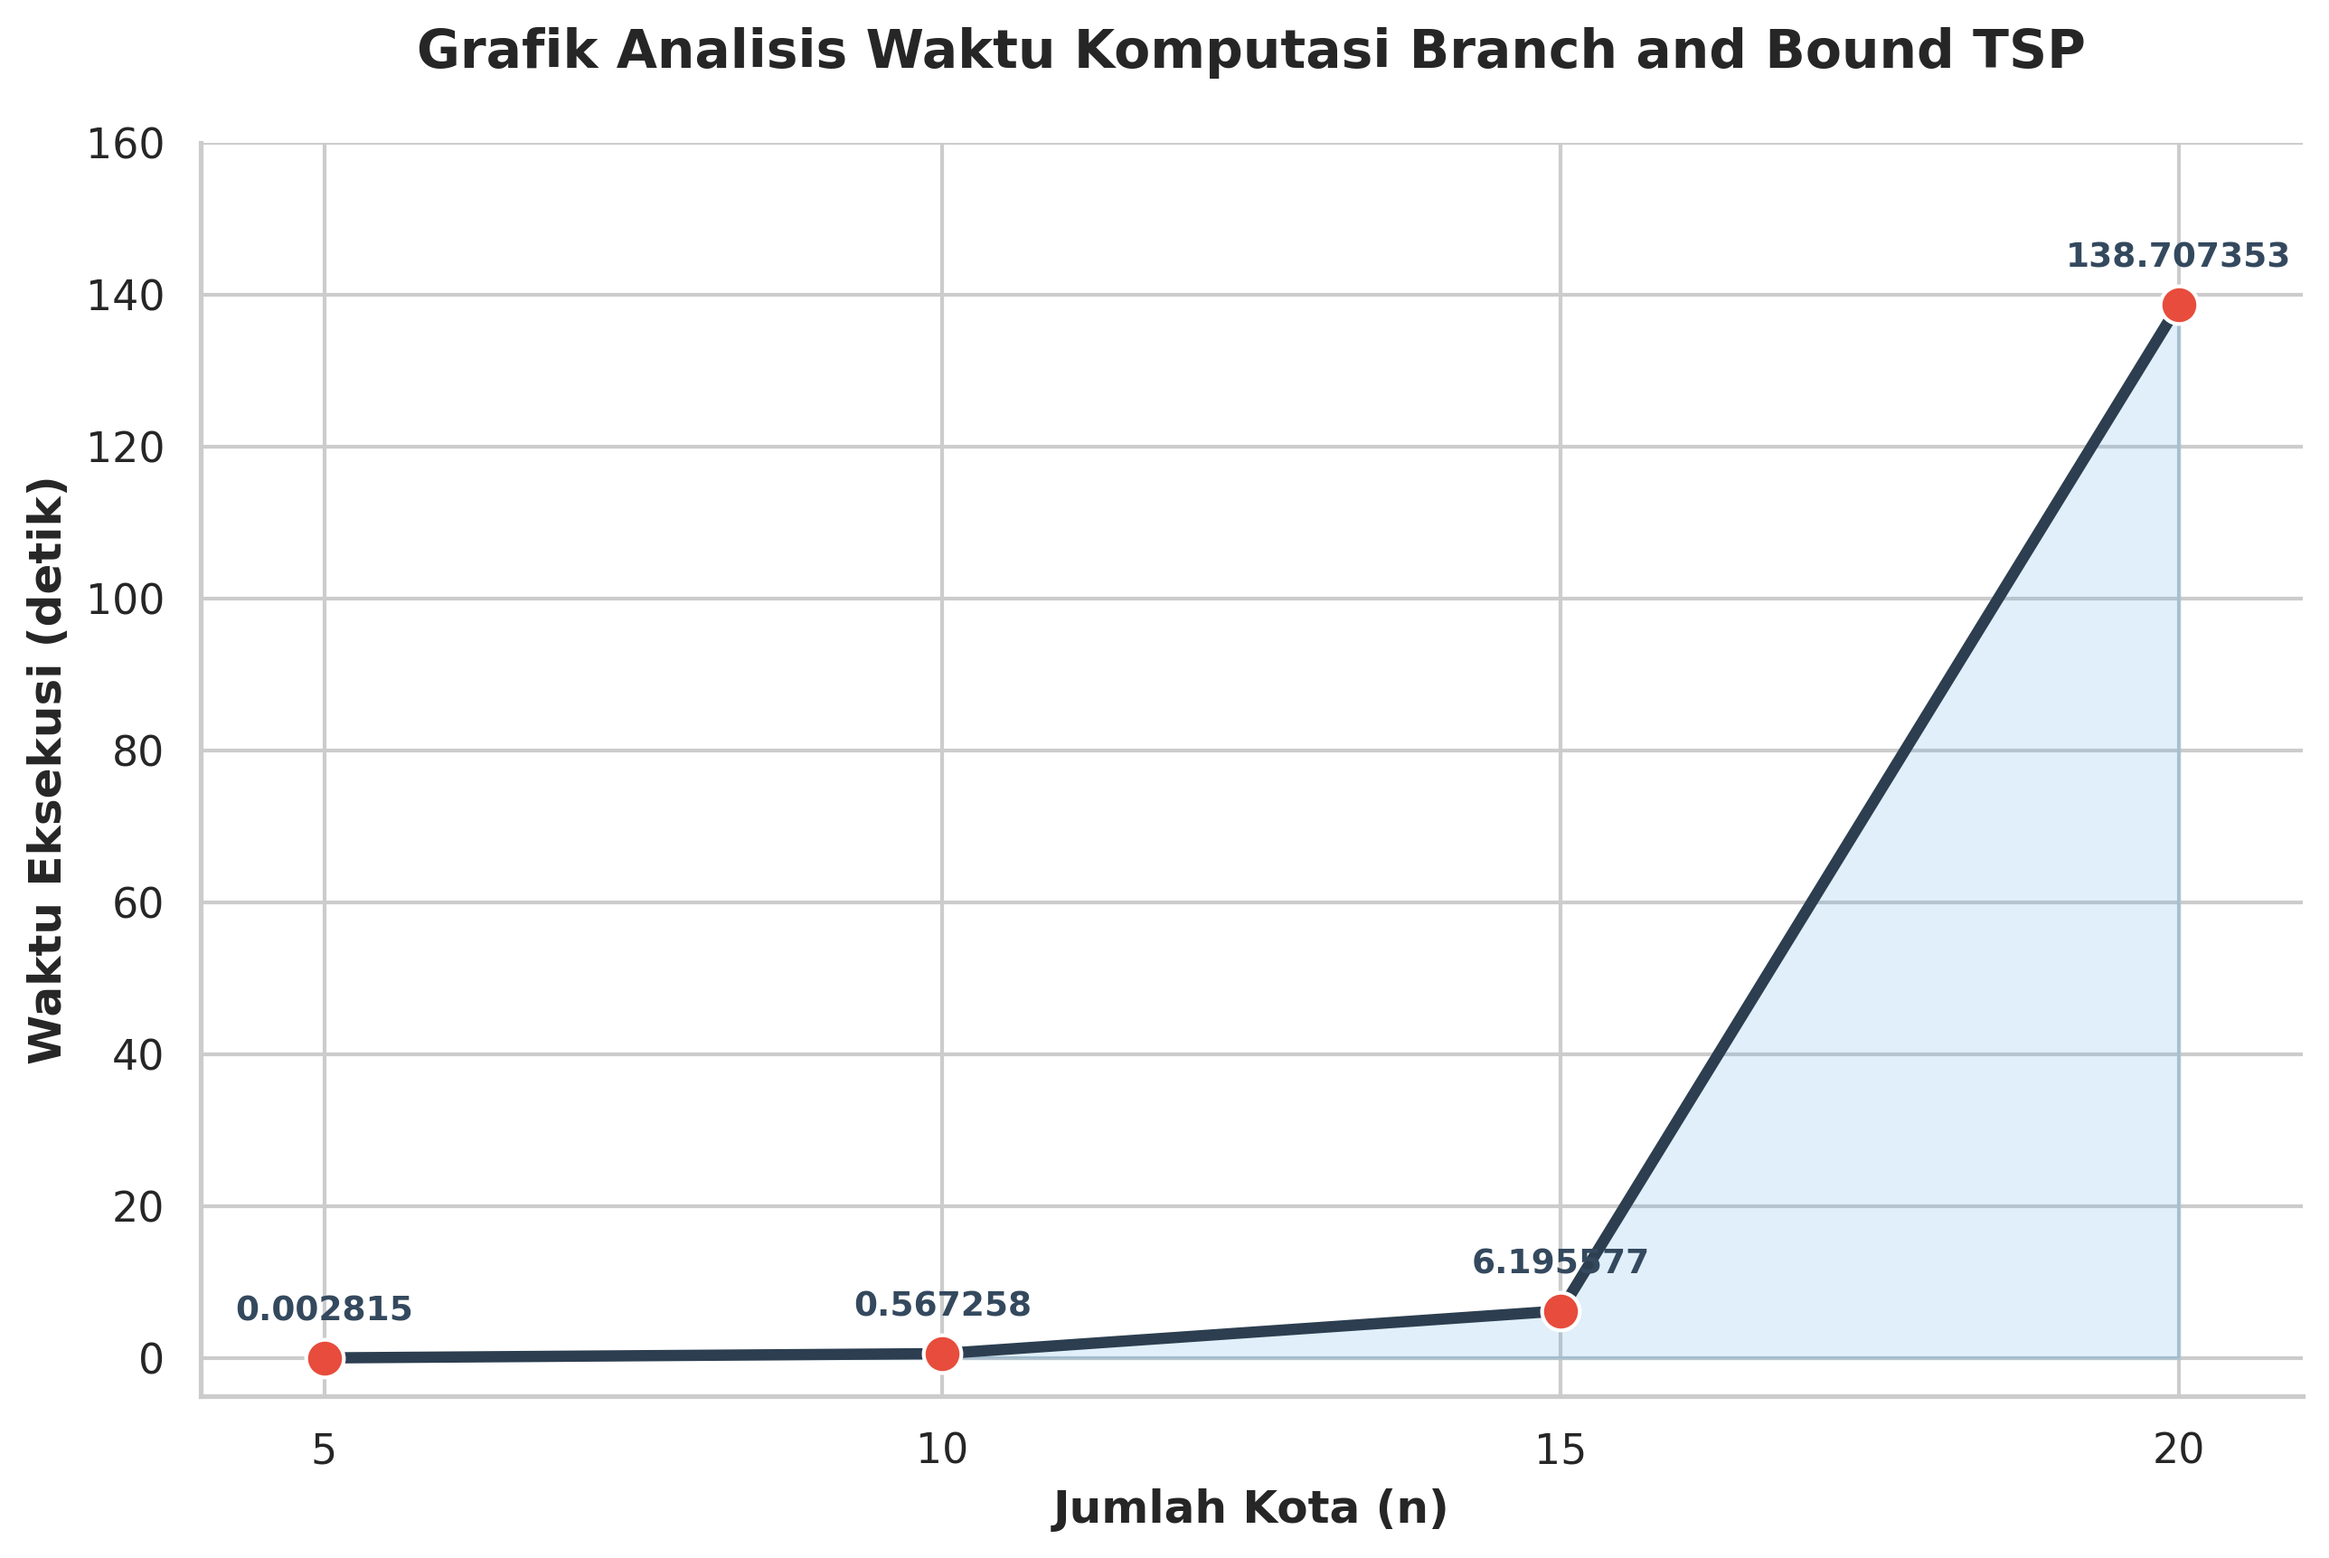
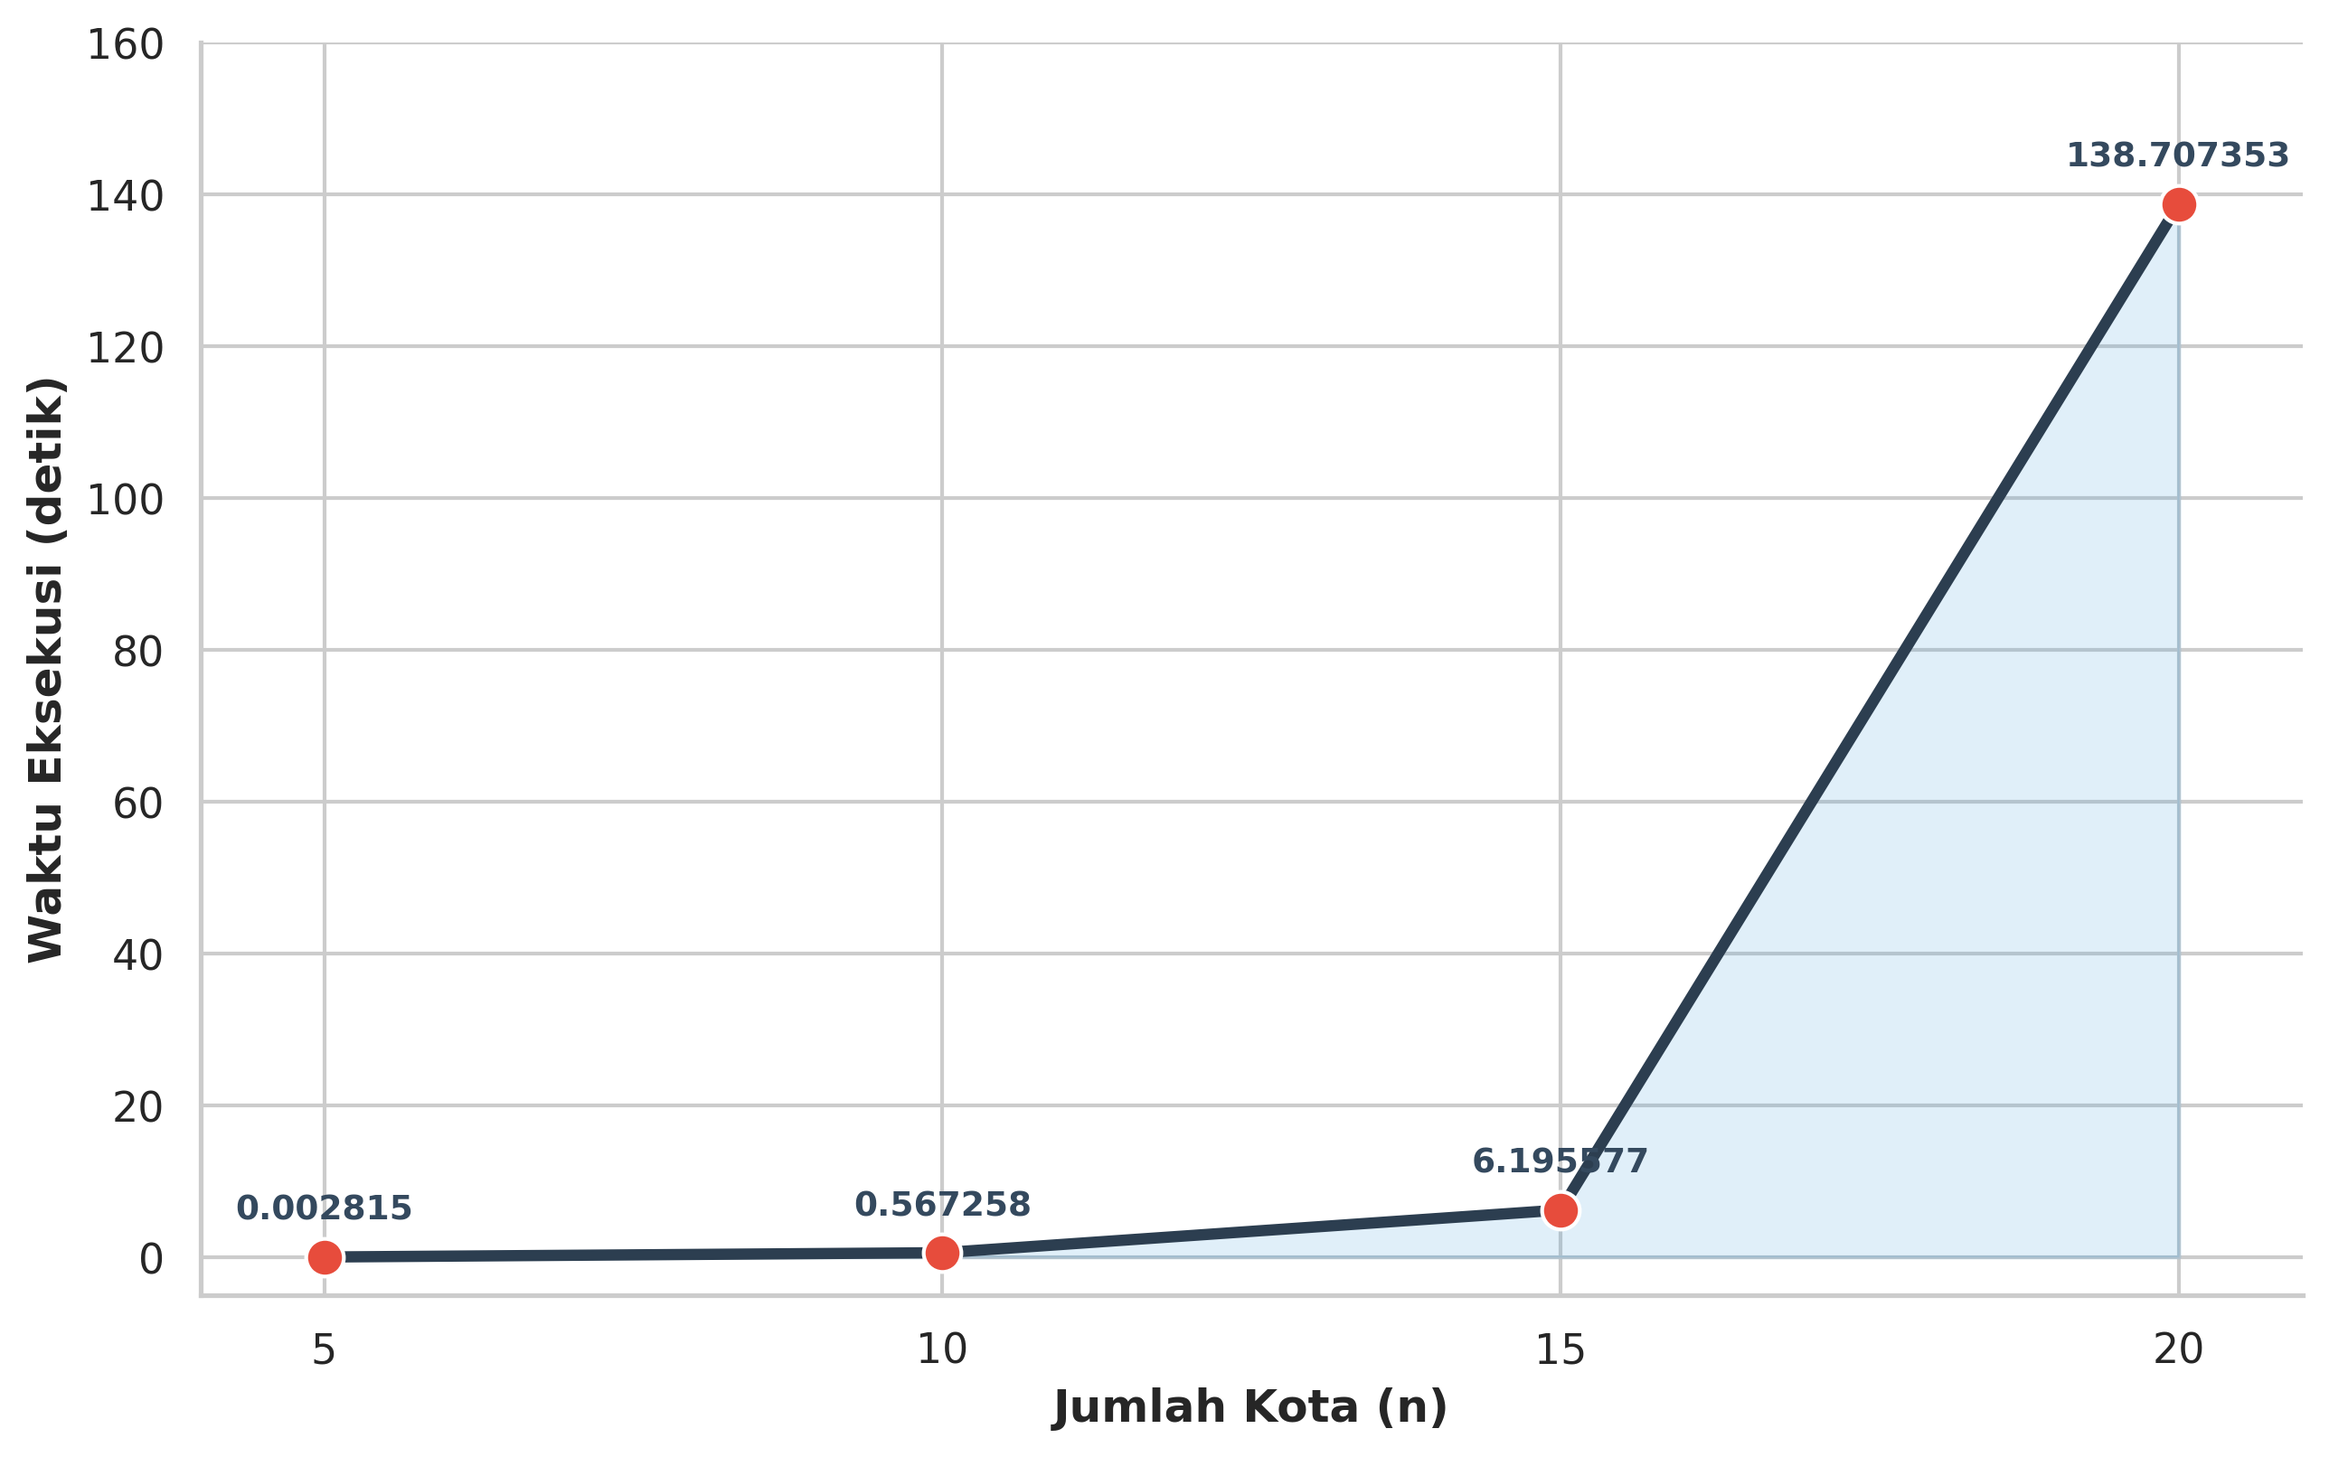
fix: code true for tesis

diff --git a/src/main.py b/src/main.py
@@ -171,7 +171,8 @@ import os
 import sys
 from scipy.spatial.distance import cdist
 import math
-
+import matplotlib.pyplot as plt
+import networkx as nx
 
 def solve_tsp(adj_matrix):
     nodes_explored = 0
@@ -227,7 +228,6 @@ def solve_tsp(adj_matrix):
 
     return best_path, best_solution, nodes_explored
 
-
 def generate_matrix(n, seed=42):
     np.random.seed(seed)
     coords = np.random.randint(1, 101, size=(n, 2))
@@ -235,6 +235,32 @@ def generate_matrix(n, seed=42):
     np.fill_diagonal(matrix, float('inf'))
     return matrix
 
+def visualize_graph(n, coords, matrix, folder_path):
+    plt.figure(figsize=(10, 8))
+    G = nx.Graph()
+
+    # 1. Tambahkan Node dengan label alfabet (A, B, C...)
+    for i in range(n):
+        label = chr(65 + i) # 65 adalah ASCII untuk 'A'
+        G.add_node(label, pos=(coords[i][0], coords[i][1]))
+
+    pos = nx.get_node_attributes(G, 'pos')
+
+    # 2. Tambahkan Edge
+    for i in range(n):
+        for j in range(i + 1, n):
+            u = chr(65 + i)
+            v = chr(65 + j)
+            G.add_edge(u, v)
+
+    nx.draw_networkx_nodes(G, pos, node_size=700, node_color='skyblue')
+    nx.draw_networkx_labels(G, pos, font_size=12, font_weight='bold')
+    nx.draw_networkx_edges(G, pos, alpha=0.3, edge_color='gray', style='dashed')
+
+    plt.grid(True, linestyle='--', alpha=0.6)
+    plot_file = os.path.join(folder_path, f"graph_connectivity_n{n}.png")
+    plt.savefig(plot_file)
+    plt.close()
 
 if __name__ == "__main__":
     variasi_n = [5, 10, 15, 20]
@@ -260,22 +286,24 @@ if __name__ == "__main__":
             print(f"=== EKSPERIMEN TSP: {n_kota} KOTA (SEED: {seed_value}) ===")
 
             np.random.seed(seed_value)
-            coords = np.random.randint(1, 101, size=(n_kota, 2))
+            coords = np.random.randint(1, 501, size=(n_kota, 2))
 
-            # --- Tampilan Koordinat (Ditambah 1) ---
+            # --- Tampilan Koordinat (Alfabet) ---
             print("\n1. KOORDINAT KOTA (X, Y):")
             for i, (x, y) in enumerate(coords):
-                print(f"   Kota {i + 1}: ({x}, {y})")
+                print(f"   Kota {chr(65 + i)}: ({x}, {y})")
 
             matrix = generate_matrix(n_kota, seed=seed_value)
+            visualize_graph(n_kota, coords, matrix, folder_n)
 
-            # --- Tampilan Header Matriks (Ditambah 1) ---
+            # --- Tampilan Header Matriks (Alfabet) ---
             print("\n2. MATRIKS JARAK ANTAR KOTA (Euclidean):")
-            header = "      " + "".join([f"K{i + 1:<7}" for i in range(n_kota)])
+            header = "      " + "".join([f"{chr(65 + i):<7}" for i in range(n_kota)])
             print(header)
             print("-" * len(header))
             for i in range(n_kota):
-                row_str = f"K{i + 1:<4} | "
+                row_label = chr(65 + i)
+                row_str = f"{row_label:<4} | "
                 for j in range(n_kota):
                     val = matrix[i][j]
                     row_str += f"{val:<7.2f} " if val != float('inf') else f"{'inf':<7} "
@@ -287,11 +315,11 @@ if __name__ == "__main__":
             end_time = time.perf_counter()
             duration = end_time - start_time
 
-            # --- Tampilan Rute (Setiap elemen path ditambah 1) ---
-            readable_path = [city + 1 for city in path]
+            # --- Tampilan Rute (Alfabet) ---
+            readable_path = [chr(65 + city) for city in path]
 
             print("\n4. HASIL AKHIR:")
-            print(f"   Rute Terpendek : {readable_path}")
+            print(f"   Rute Terpendek : {' -> '.join(readable_path)}")
             print(f"   Total Jarak    : {cost:.2f}")
             print(f"   Simpul Dieksplorasi : {nodes_count}")
             print(f"   Waktu Proses   : {duration:.6f} detik")

diff --git a/src/grafik_visualisasi.py b/src/grafik_visualisasi.py
@@ -32,8 +32,8 @@ for i, val in enumerate(waktu):
              ha='center', va='bottom', fontsize=9, fontweight='bold', color='#34495e')
 
 # 6. PENGATURAN SUMBU & LABEL
-plt.title('Grafik Analisis Waktu Komputasi Branch and Bound TSP',
-          fontsize=14, fontweight='bold', pad=20)
+# plt.title('Grafik Analisis Waktu Komputasi Branch and Bound TSP',
+#           fontsize=14, fontweight='bold', pad=20)
 plt.xlabel('Jumlah Kota (n)', fontsize=12, fontweight='bold')
 plt.ylabel('Waktu Eksekusi (detik)', fontsize=12, fontweight='bold')
 
